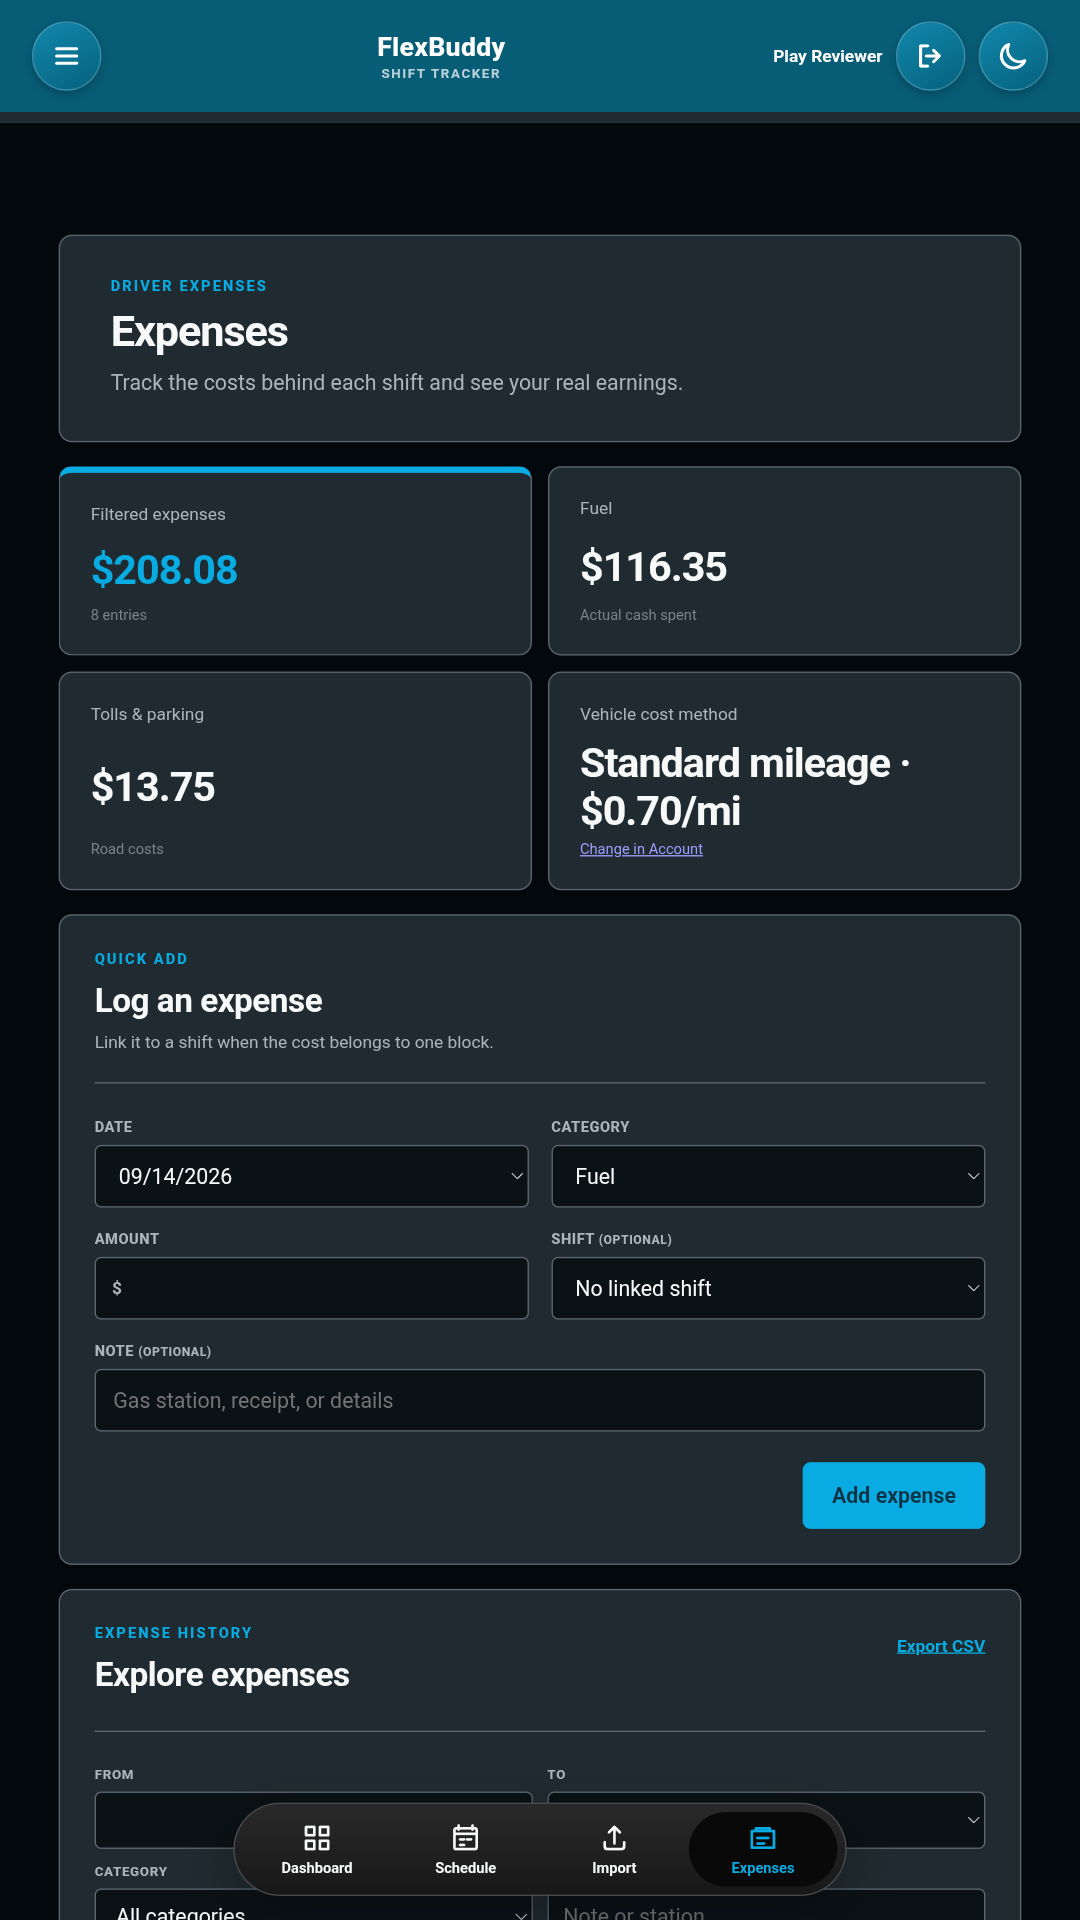
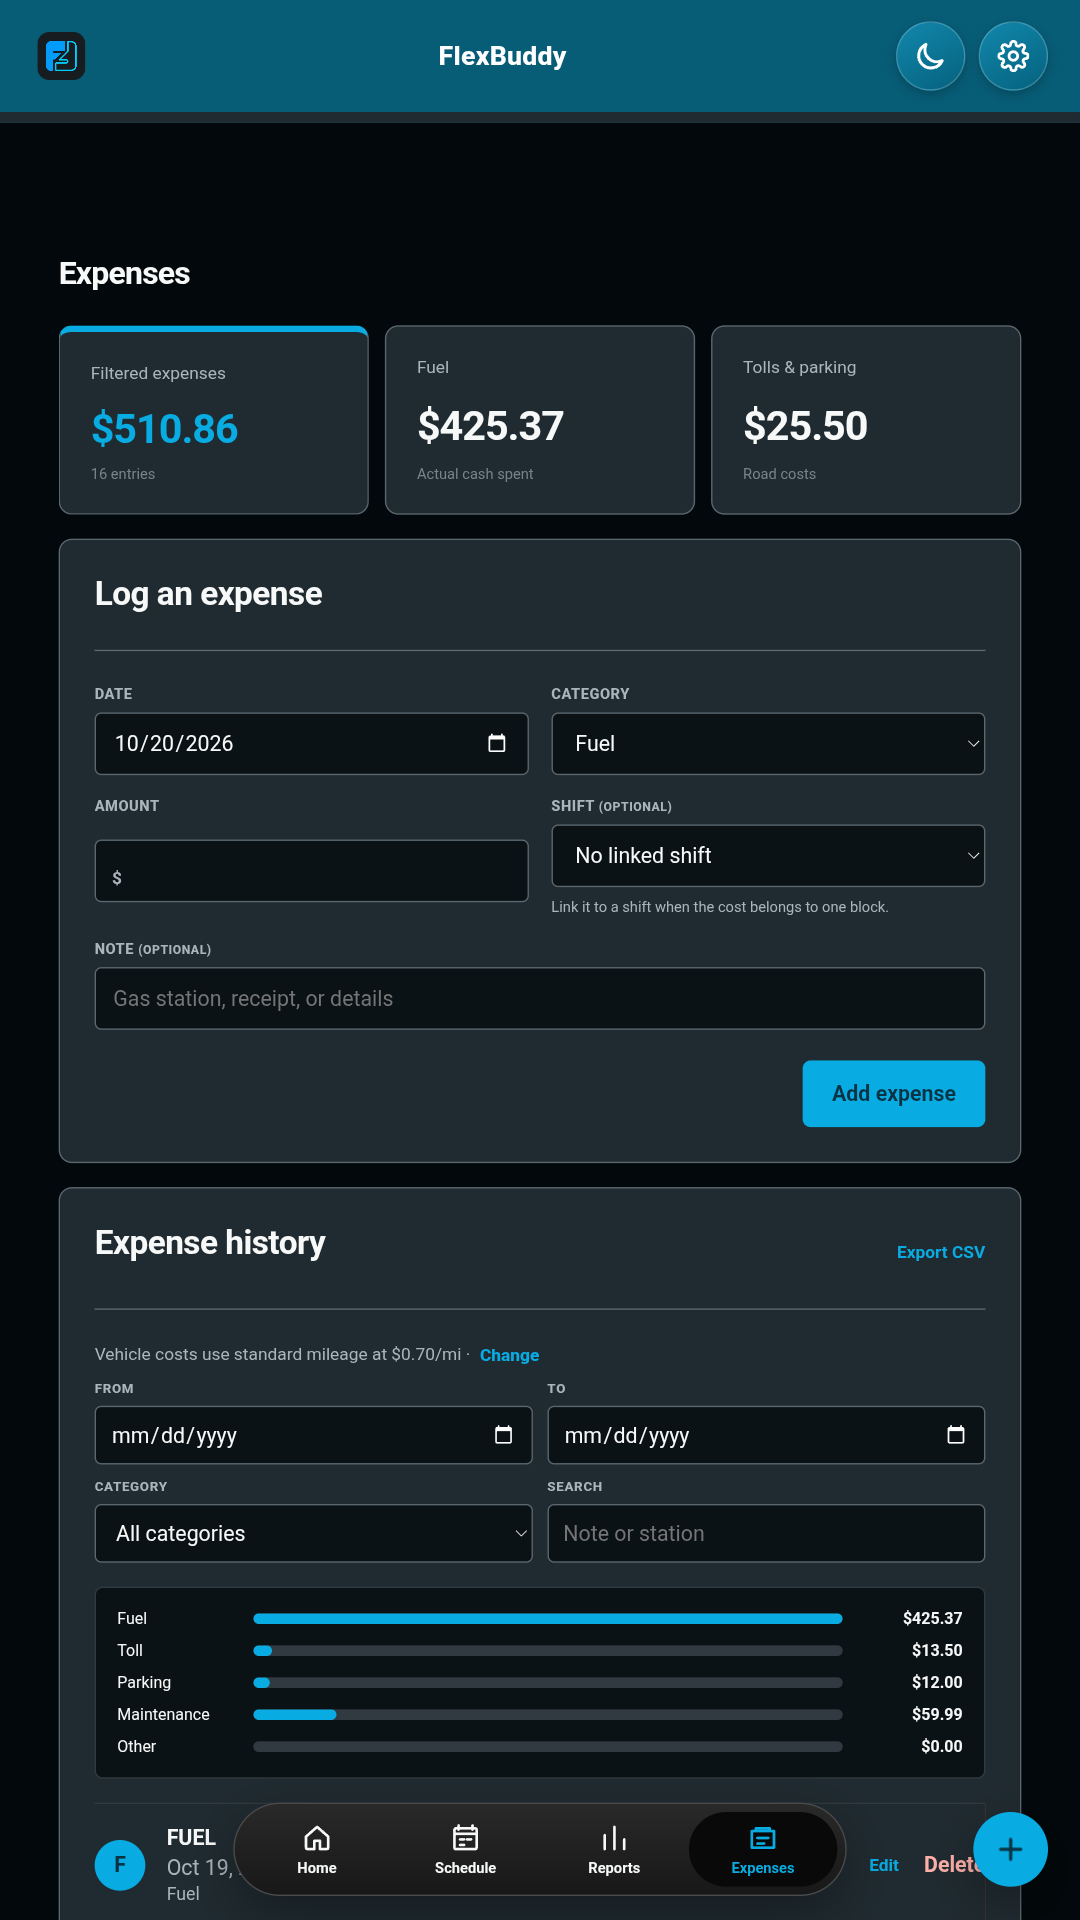
docs(android): retake the store screenshots for the current screens
The store screenshots dated from September 14 and showed the old
dashboard, header and Import tab, before Home, Reports and the floating
menu replaced them. The Play Reviewer account's sample data is from
September, so its Home now shows an empty week, and nothing may be added
to that production account.

The phone and both tablet sets were retaken from the same app run
locally against a throwaway database with a made-up demo driver, at the
same viewports and sizes as before, rendered by Chrome on the Android
emulator so the fonts are Android's. Each set now has Home, Schedule,
Reports, Expenses and Import, and the listing notes say how they were
made and the order to upload them.

diff --git a/android/store-listing.md b/android/store-listing.md
@@ -82,19 +82,23 @@ Tablet screenshots use the same capture as the phone set: a 612 × 1088 viewport
 tablets and an 810 × 1440 viewport at 1.33x for 10-inch tablets, both in portrait so the app's
 tablet layout fills the frame.
 
-The screenshots were captured on September 14, 2026 from the Play-installed build signed in to the
-reviewer account with its sample data. They show the app's web content at a 414 × 736 phone viewport
-through Chrome DevTools, without the Android status bar. The update toast and backup reminder were
-hidden because they are transient prompts.
+The screenshots were retaken on October 20, 2026, after the Home and Reports screens, the floating
+menu and the header changed. The Play Reviewer account's sample data dates from September, so its
+Home showed an empty week; nothing may be added to that production account. They were captured
+instead from the same app run locally against a throwaway database, signed in to a made-up demo
+driver ("Sam", stations Downtown Hub, Airport Depot, Northside and Lakeview) with blocks, expenses,
+a weekly goal and a tax set-aside dated around that week. Chrome on the Pixel 10 Pro emulator
+rendered them through DevTools, so the fonts are Android's, at a 414 x 736 phone viewport at 3x,
+without the Android status bar. Chrome's install prompt, which never appears in the installed app,
+was suppressed, and transient toasts were hidden.
 
-Suggested upload order:
+Suggested upload order (the same order for both tablet sets, prefixed `tablet7-` and `tablet10-`):
 
-1. `01-dashboard.png`: earnings, shifts, hours, and the next scheduled block.
-2. `03-schedule.png`: the next block with its countdown, offered pay, and actions.
-3. `06-history.png`: shift history with pay, hours, miles, and a forfeited block.
-4. `04-expenses.png`: expense totals and the vehicle cost method.
-5. `02-earnings-report.png`: the weekly earnings breakdown.
-6. `05-import.png`: the screenshot import step (optional).
+1. `01-home.png`: this week's earnings against the goal, the next block and the next payout.
+2. `02-schedule.png`: the next block with its countdown, forfeit deadline and actions.
+3. `03-reports.png`: earned, estimated net, average hourly and base versus tips.
+4. `04-expenses.png`: expense totals and the expense form.
+5. `05-import.png`: the screenshot import step.
 
 A screenshot of the import review with parsed fields is not included: it would need a sample
 screenshot image, and it must not show another app's screen.
